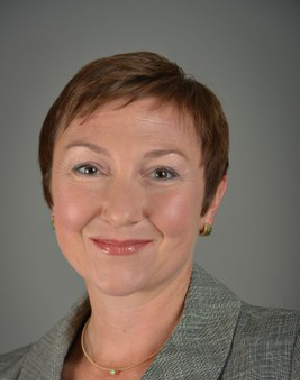
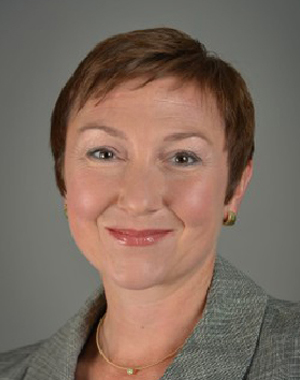
Frau Matzner-Vogel

diff --git a/_layouts/homepage.html b/_layouts/homepage.html
@@ -77,16 +77,23 @@ layout: generic
 	</div>
 
 	<div class="pat-well pat-rich">
-		<h4>Kontakt</h4>
-		<p>
-		Dr. Nicol Matzner-Vogel<br/>	
-		Geschäftsführerin<br/>
-		Tel.: +49 89 6004-4530 oder -2036 (Geschäftszimmer)<br/>
-		E-Mail: <a href="mailto:info@casc.de">info@casc.de</a>
-		</p>
-		<p>
-		Die Geschäftsräume von casc befinden sich im Präsidialbereich der Universität der Bundeswehr München in Gebäude 38, Erdgeschoss.
-		Das Geschäftszimmer (Raum 0109) ist von Montag bis Donnerstag, 8:30 bis 12.30 Uhr besetzt.
-		</p>
+		<div class="row">
+			<div class="two columns">
+				<img src="/media/team-members/7.jpg" />
+			</div>
+			<div class="ten columns">
+				<h4>Kontakt</h4>
+				<p>
+				Dr. Nicol Matzner-Vogel<br/>	
+				Geschäftsführerin<br/>
+				Tel.: +49 89 6004-4530 oder -2036 (Geschäftszimmer)<br/>
+				E-Mail: <a href="mailto:info@casc.de">info@casc.de</a>
+				</p>
+				<p>
+				Die Geschäftsräume von casc befinden sich im Präsidialbereich der Universität der Bundeswehr München in Gebäude 38, Erdgeschoss.
+				Das Geschäftszimmer (Raum 0109) ist von Montag bis Donnerstag, 8:30 bis 12.30 Uhr besetzt.
+				</p>
+			</div>
+		</div>
 	</div>	
 </div>
